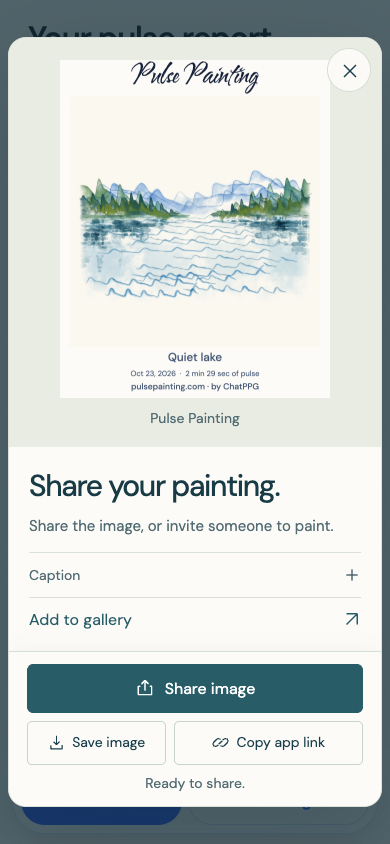
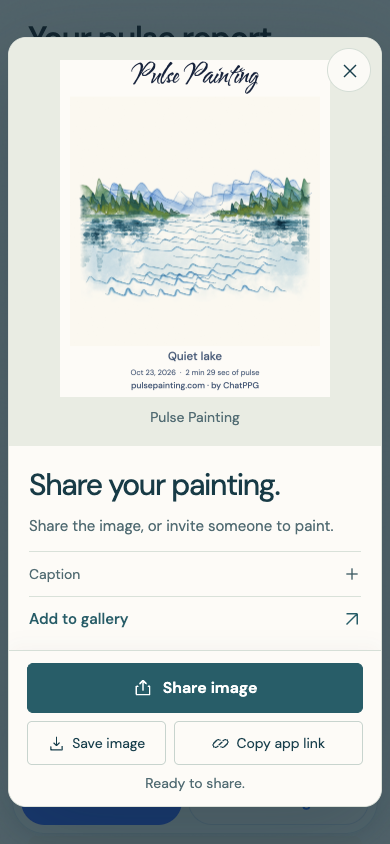
Document verified simple-sharing release and refresh screenshot

diff --git a/HANDOFF.md b/HANDOFF.md
@@ -1,6 +1,6 @@
 # Pulse Painting handoff
 
-## Prepared release: simple sharing and mobile capture polish
+## Current production release: simple sharing and mobile capture polish
 
 PR #8 replaces the sharing book/platform picker with a large painting preview,
 Share image, Save image, an accurate painting/app link and optional Caption/Add
@@ -8,11 +8,18 @@ to gallery. Existing public book links retain compatibility. Mobile capture uses
 SVG icons, centered placement title, Finding signal guidance and Cancel reading
 with resource cleanup and stale-callback isolation. Full WebKit interruption
 replay passed; the renderer remains unchanged. Current-source browser checks and
-actual-app visual review pass. CI and hosted promotion are still pending.
+actual-app visual review pass. Full Linux CI `40035283792` passed tested source
+`d24165e4b20bc52f1bf790d951e047c2372b7264`; PR #8 merged as
+`5a137f586be05b5f4ca1542088ee9f071b3ee56b`. Production
+`dpl_SuAe9em7a6ZirnYoJSUoYhngXDPD` is READY on https://www.pulsepainting.com/.
+At `2026-10-23T22:53:52.295Z`, all 107 public files matched the tested build;
+anonymous Chromium/WebKit phone/desktop checks passed with no public writes or
+runtime/HTTP errors. Later documentation commits can advance the deployment ID
+without changing the verified runtime. npm publication remains pending.
 See `docs/validation/simple-sharing-2026-10-23.md`. The new continuous-brush
 motion discussed from the user's video is a proposed next step, not implemented.
 
-## Current production release: adaptive painting and gallery polish
+## Previous production release: adaptive painting and gallery polish
 
 The app keeps the crisp real PPG contour, pointed
 brush, wet pigment and camera animation on every frame while budgeting scenic

diff --git a/docs/media/README.md b/docs/media/README.md
@@ -103,9 +103,9 @@ thumbnail decoded. No image pixels or interface text were edited.
 
 ## Simple painting sharing
 
-`pulse-painting-sharing.png` was refreshed on October 23, 2026 at 22:39 UTC.
+`pulse-painting-sharing.png` was refreshed on October 23, 2026 at 22:44:05 UTC.
 It is the direct 390 × 844 browser capture of the actual built app with loaded
-fonts, DPR 1, iPhone 13 emulation and reduced motion. No screenshot pixels were
+fonts, Chrome 155.0.8059.85, DPR 1, iPhone 13 emulation and reduced motion. No screenshot pixels were
 edited. The real report's Share artwork button opened this dialog.
 
 The public fixture was processed through `replayPublicFixture(1, 0, 180)` and
@@ -155,5 +155,5 @@ social-post delivery or sustained frame-rate evidence.
[6 lines of base64/hex data omitted]

diff --git a/docs/validation/simple-sharing-2026-10-23.md b/docs/validation/simple-sharing-2026-10-23.md
@@ -47,6 +47,20 @@ validation. No QA paintings are published to production.
 
 ## Release status
 
-Local verification is complete. Final-source CI and hosted verification are
-required before release; production identifiers are recorded in HANDOFF.md.
+Full Linux CI `40035283792` passed tested source
+`d24165e4b20bc52f1bf790d951e047c2372b7264`. Preview
+`dpl_2wV2RBPDPzSLgi47QiCXcYYpdnw1` matched all 107 frozen files and passed four
+hosted Chromium/WebKit phone/desktop cases without runtime or HTTP errors.
+
+PR #8 merged as `5a137f586be05b5f4ca1542088ee9f071b3ee56b`. Production
+`dpl_SuAe9em7a6ZirnYoJSUoYhngXDPD` is READY at https://www.pulsepainting.com/.
+At `2026-10-23T22:53:52.295Z`, all 107 public files matched the tested build and
+the apex returned 308 to www. Anonymous Chromium/WebKit at 390 and 1440px passed
+real gallery, centered sharing, image readiness, no-book loading, and community
+reads. Community had zero real publications and eight clearly labeled examples.
+No public write attempts, runtime errors or HTTP errors occurred.
+
+Hosted results are in `.dream-loop/simple-sharing/production-browser/results.json`
+and `.dream-loop/no-emoji/simple-production-assets.json`. Later documentation-only
+commits may advance deployment IDs without changing these verified assets.
 The ppg-js npm publication remains intentionally pending.

diff --git a/README.md b/README.md
@@ -6,7 +6,8 @@ Your pulse, made into a place.
 > watercolor landscapes, crisp measured pulse strokes, a pointed brush and soft
 > trailing pigment, a calm zoom-out reveal, and shareable artwork.
 > Browser replay and deployed-asset checks passed; physical-phone validation remains separate.
-> See [current release verification](docs/validation/slow-phone-2026-10-23.md).
+> See [current release verification](docs/validation/simple-sharing-2026-10-23.md)
+> and [painting performance](docs/validation/slow-phone-2026-10-23.md).
 > The [mobile gallery](https://www.pulsepainting.com/#landscapes) is now live too;
 > see [mobile verification](docs/validation/mobile-gallery-2026-10-23.md).
 > Community publishing and artwork sharing are live;
